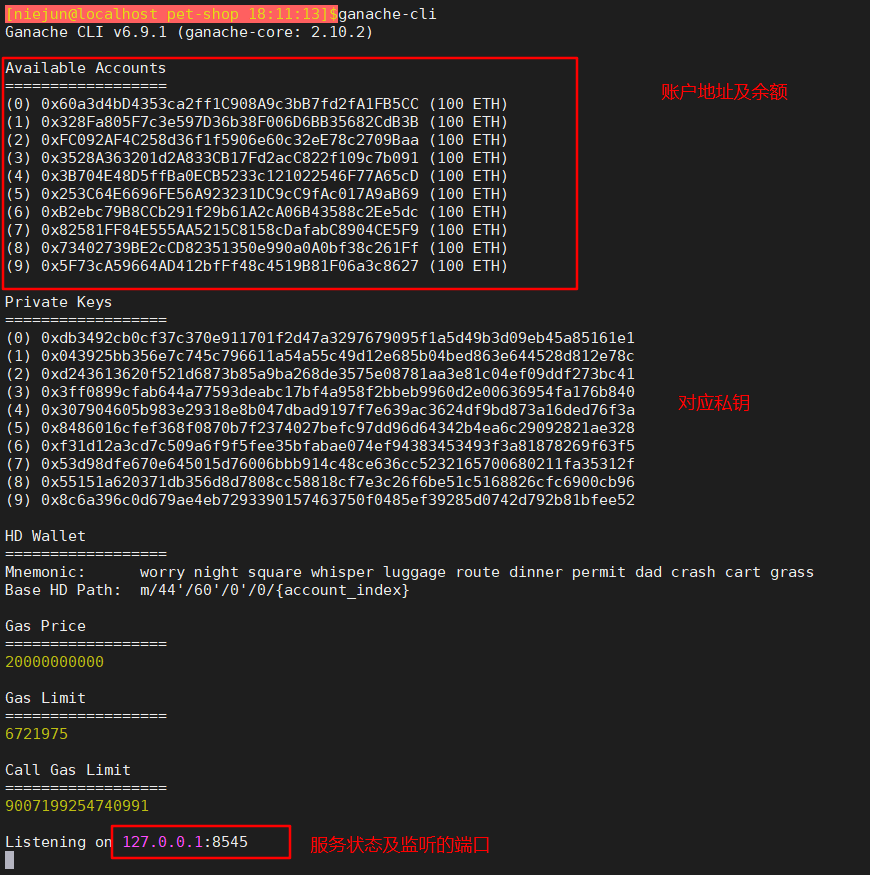
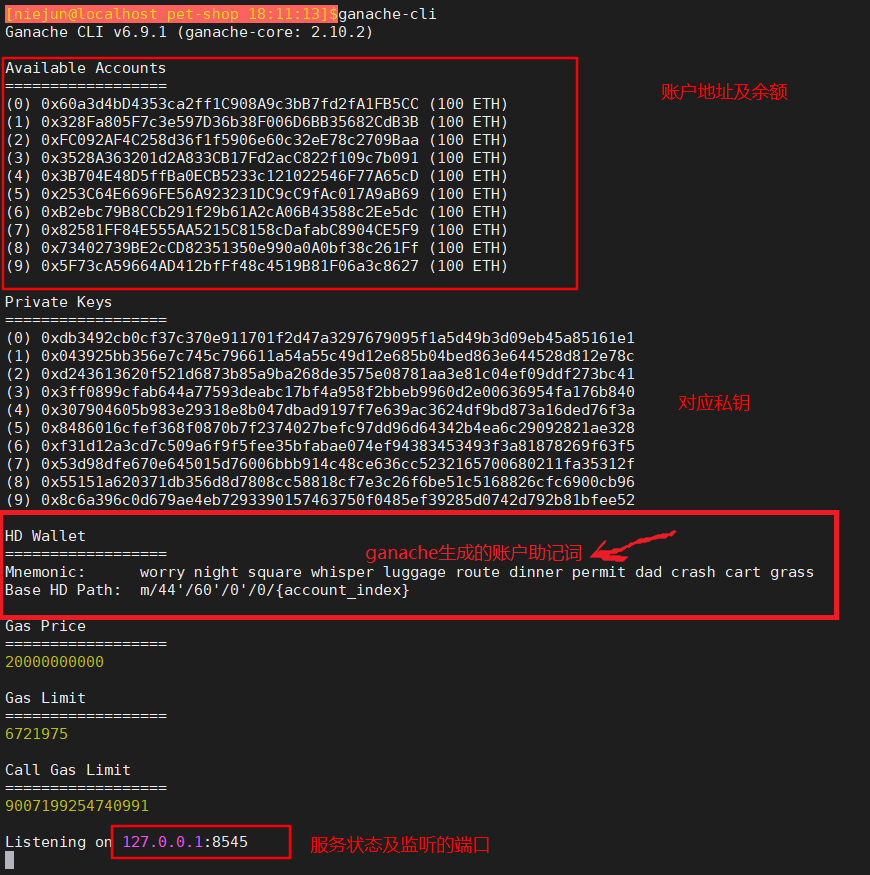
complete runing service by npm and check result in browser

Changed region(s): [[0.0, 0.5554, 0.9621, 0.7097]]

diff --git a/code/src/js/app.js b/code/src/js/app.js
@@ -24,18 +24,43 @@ App = {
   },
 
   initWeb3: async function() {
-    /*
-     * Replace me...
-     */
+    // Modern dapp browsers...
+    if (window.ethereum) {
+      App.web3Provider = window.ethereum;
+      try {
+        // Request account access
+        await window.ethereum.enable();
+      } catch (error) {
+        // User denied account access...
+        console.error("User denied account access")
+      }
+    }
+    // Legacy dapp browsers...
+    else if (window.web3) {
+      App.web3Provider = window.web3.currentProvider;
+    }
+    // If no injected web3 instance is detected, fall back to Ganache
+    else {
+      App.web3Provider = new Web3.providers.HttpProvider('http://localhost:7545');
+    }
+    web3 = new Web3(App.web3Provider);
 
     return App.initContract();
   },
 
   initContract: function() {
-    /*
-     * Replace me...
-     */
+	// 加载Adoption.json，保存了Adoption的ABI（接口说明）信息及部署后的网络(地址)信息，它在编译合约的时候生成ABI，在部署的时候追加网络信息
+	$.getJSON('Adoption.json', function(data) {
+		// 用Adoption.json数据创建一个可交互的TruffleContract合约实例。
+		var AdoptionArtifact = data;
+		App.contracts.Adoption = TruffleContract(AdoptionArtifact);
 
+		// Set the provider for our contract
+		App.contracts.Adoption.setProvider(App.web3Provider);
+
+		// Use our contract to retrieve and mark the adopted pets
+		return App.markAdopted();
+	});
     return App.bindEvents();
   },
 
@@ -44,9 +69,22 @@ App = {
   },
 
   markAdopted: function(adopters, account) {
-    /*
-     * Replace me...
-     */
+	var adoptionInstance;
+
+	App.contracts.Adoption.deployed().then(function(instance) {
+	  adoptionInstance = instance;
+
+	  // 调用合约的getAdopters(), 用call读取信息不用消耗gas
+	  return adoptionInstance.getAdopters.call();
+	}).then(function(adopters) {
+	  for (i = 0; i < adopters.length; i++) {
+	    if (adopters[i] !== '0x0000000000000000000000000000000000000000') {
+	      $('.panel-pet').eq(i).find('button').text('Success').attr('disabled', true);
+	    }
+	  }
+	}).catch(function(err) {
+	  console.log(err.message);
+	});
   },
 
   handleAdopt: function(event) {
@@ -54,9 +92,27 @@ App = {
 
     var petId = parseInt($(event.target).data('id'));
 
-    /*
-     * Replace me...
-     */
+	var adoptionInstance;
+
+    // 获取用户账号
+    web3.eth.getAccounts(function(error, accounts) {
+      if (error) {
+        console.log(error);
+      }
+
+      var account = accounts[0];
+
+      App.contracts.Adoption.deployed().then(function(instance) {
+        adoptionInstance = instance;
+
+        // 发送交易领养宠物
+        return adoptionInstance.adopt(petId, {from: account});
+      }).then(function(result) {
+        return App.markAdopted();
+      }).catch(function(err) {
+        console.log(err.message);
+      });
+    });
   }
 
 };

diff --git a/README.md b/README.md
@@ -400,10 +400,14 @@ MetaMask 是一款插件形式的以太坊轻客户端，开发过程中使用 M
 在接受隐私说明后，会出现页面如下：
 ![主界面](https://img.learnblockchain.cn/2018/metamask-initial.png!wl)
 
-这里我们通过还原一个 Ganache 为我们创建好的钱包，作为我们的开发测试钱包。点击页面的** Import Existing DEN**，输入 Ganache 显示的助记词。
+这里我们通过还原一个 Ganache 为我们创建好的钱包，作为我们的开发测试钱包。点击页面的 Import Existing DEN，输入 Ganache 显示的助记词[**助剂记在我们使用 Ganache 开启私链时显示的 HD Wallet下面的 Mnemonic**]。
 
 ```
 candy maple cake sugar pudding cream honey rich smooth crumble sweet treat
+
+---------------------
+每个人生成的都不一样，类似 密保问题？我的是
+worry night square whisper luggage route dinner permit dad crash cart grass
 ```
 
 然后自己想要的密码，点击 OK。
@@ -450,6 +454,8 @@ candy maple cake sugar pudding cream honey rich smooth crumble sweet treat
 ```bash
 > npm run dev
 ```
+
+![npm启动服务截图](doc/npm_start_service.png)
 
 会自动打开浏览器显示我们的 dapp，如本文的第一张图。
 现在领养一直宠物看看，当我们点击 **Adopt** 时，MetaMask 会提示我们交易的确认，如图：
